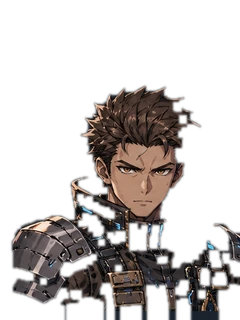
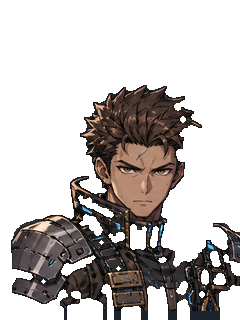
fix(vn): make conversation portraits opaque

diff --git a/story-events.js b/story-events.js
@@ -43,6 +43,7 @@ class StoryEventSystem {
         this.vnRight = document.getElementById('vnPortraitRight');
         // 話者名 → ポートレートのキャラキー
         this.PORTRAIT_KEYS = { 'カイト': 'kaito', 'アカリ': 'akari', 'リク': 'riku', 'ヤミ': 'yami' };
+        this.vnPortraitVersion = '20260706-opaque-vn';
         this.vnLeftKey = null;   // 左に立っているキャラキー
         this.vnRightKey = null;  // 右
 
@@ -791,8 +792,9 @@ class StoryEventSystem {
         if (!imgEl) return;
         if (!key) { imgEl.classList.remove('shown', 'speaking'); imgEl.removeAttribute('src'); return; }
         // 会話シーンは切り抜き(透過)版を使う。メニュー/戦闘カードの額装版とはファイルを分けている
-        const webp = `assets/characters/${key}_portrait_vn.webp`;
-        imgEl.onerror = () => { imgEl.onerror = null; imgEl.src = `assets/characters/${key}_portrait_vn.png`; };
+        const v = encodeURIComponent(this.vnPortraitVersion || 'vn');
+        const webp = `assets/characters/${key}_portrait_vn.webp?v=${v}`;
+        imgEl.onerror = () => { imgEl.onerror = null; imgEl.src = `assets/characters/${key}_portrait_vn.png?v=${v}`; };
         imgEl.src = webp;
         imgEl.classList.add('shown');
         imgEl.classList.remove('speaking');

diff --git a/index.html b/index.html
@@ -11,7 +11,7 @@
     <title>デウス・コード 八百万の神託 - RPG Demo</title>
     <link rel="preload" as="image" href="assets/title/title-screen.webp" type="image/webp">
     <!-- build: 2026-06-09T19:40 (fixed-message-panel-layout) -->
-    <script>window.__BUILD__='2026-07-06T-npc-shop-status-visual-fixes';</script>
+    <script>window.__BUILD__='2026-07-06T-vn-portrait-opacity-fix';</script>
     <style>
         * {
             margin: 0;
@@ -3721,7 +3721,7 @@
     <script src="bgm-system.js?v=36"></script>
     <script src="party-system.js?v=50"></script>
     <script src="quest-system.js?v=9"></script>
-    <script src="story-events.js?v=66"></script>
+    <script src="story-events.js?v=67"></script>
 
     <script>
         const canvas = document.getElementById('gameCanvas');

diff --git a/tools/vn-portrait-alpha-oracle.py b/tools/vn-portrait-alpha-oracle.py
@@ -1,0 +1,27 @@
+#!/usr/bin/env python3
+"""Validate VN portrait alpha is reserved for background cutout, not character opacity."""
+from pathlib import Path
+from PIL import Image
+
+ROOT = Path(__file__).resolve().parents[1]
+ASSET_DIR = ROOT / "assets" / "characters"
+CHARS = ["kaito", "akari", "riku", "yami"]
+FORMATS = ["png", "webp"]
+
+ok = True
+print("\n=== VN portrait alpha oracle ===\n")
+
+for key in CHARS:
+    for ext in FORMATS:
+        path = ASSET_DIR / f"{key}_portrait_vn.{ext}"
+        im = Image.open(path).convert("RGBA")
+        alpha = list(im.getchannel("A").getdata())
+        total = len(alpha)
+        opaque = sum(1 for a in alpha if a >= 250) / total * 100
+        semi = sum(1 for a in alpha if 1 <= a < 250) / total * 100
+        cond = im.size == (240, 320) and semi <= 0.1 and opaque >= 20
+        print(f"{'OK' if cond else 'NG'} {path.name}: size={im.size} opaque={opaque:.1f}% semi={semi:.2f}%")
+        ok = ok and cond
+
+print("\n" + ("OK all VN portraits are opaque where visible" if ok else "NG alpha regression detected"))
+raise SystemExit(0 if ok else 1)
